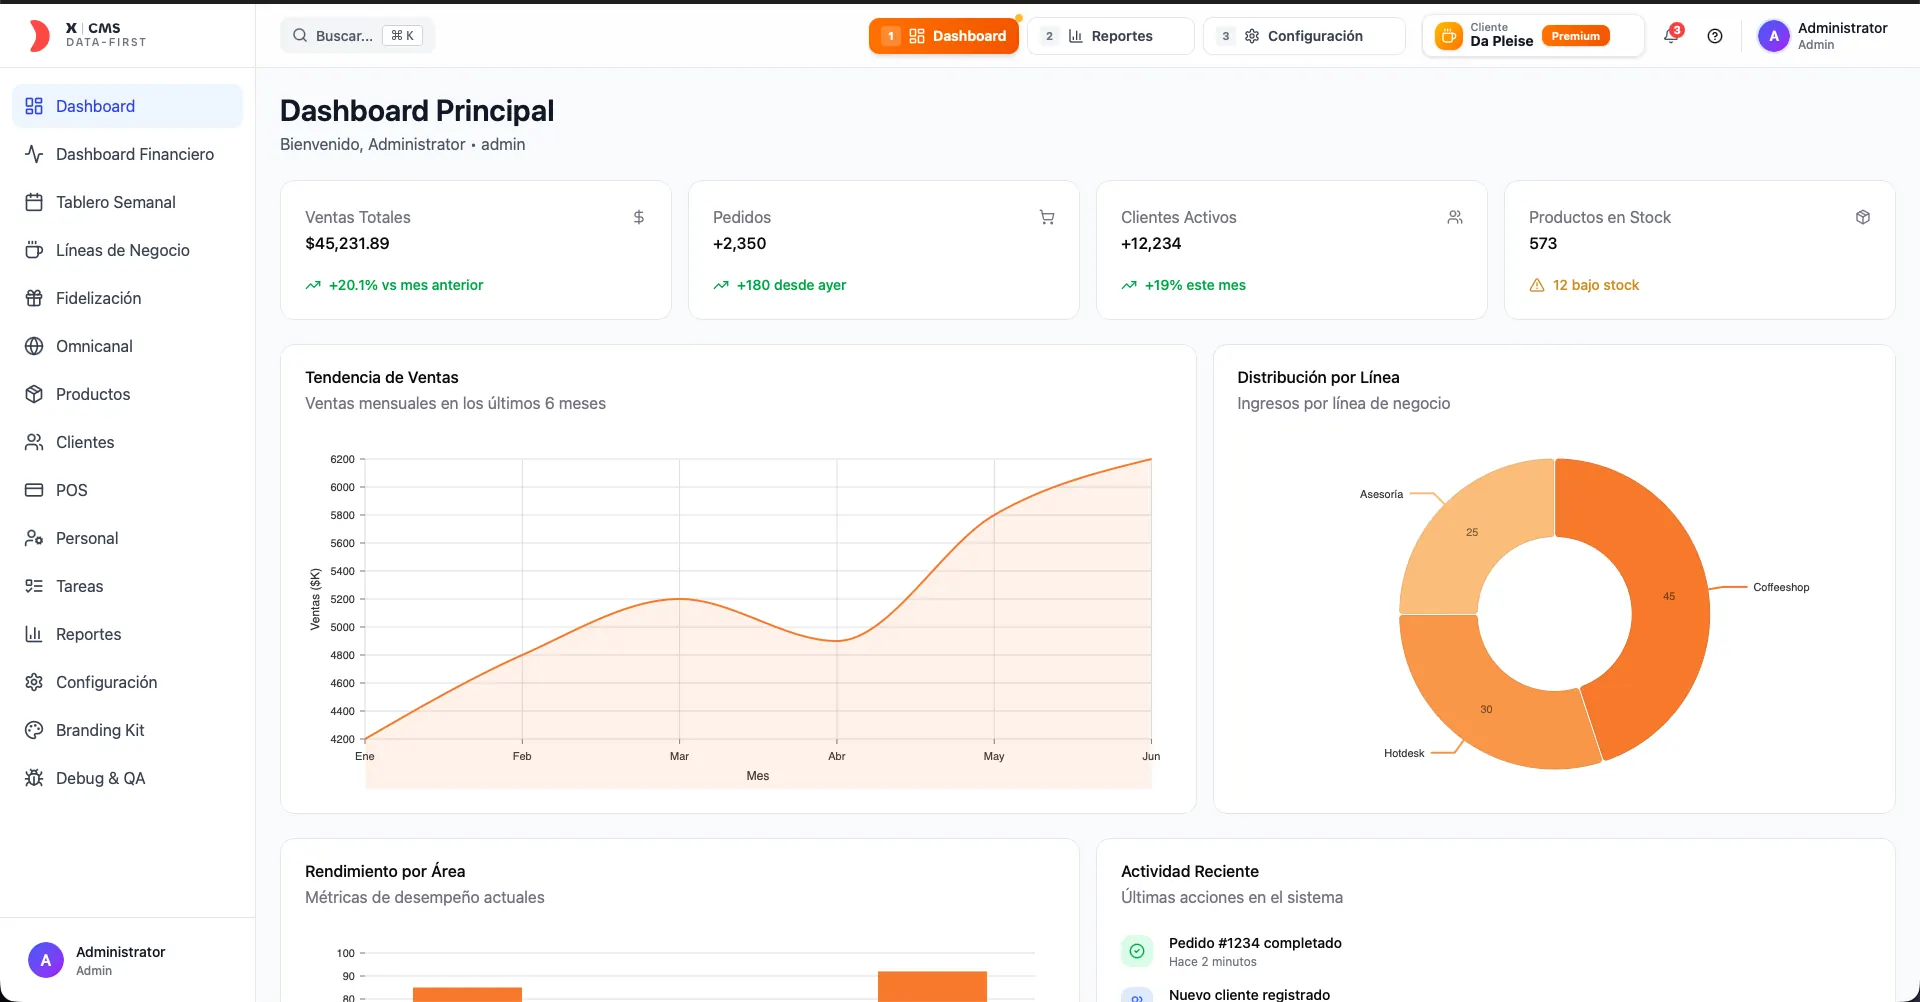
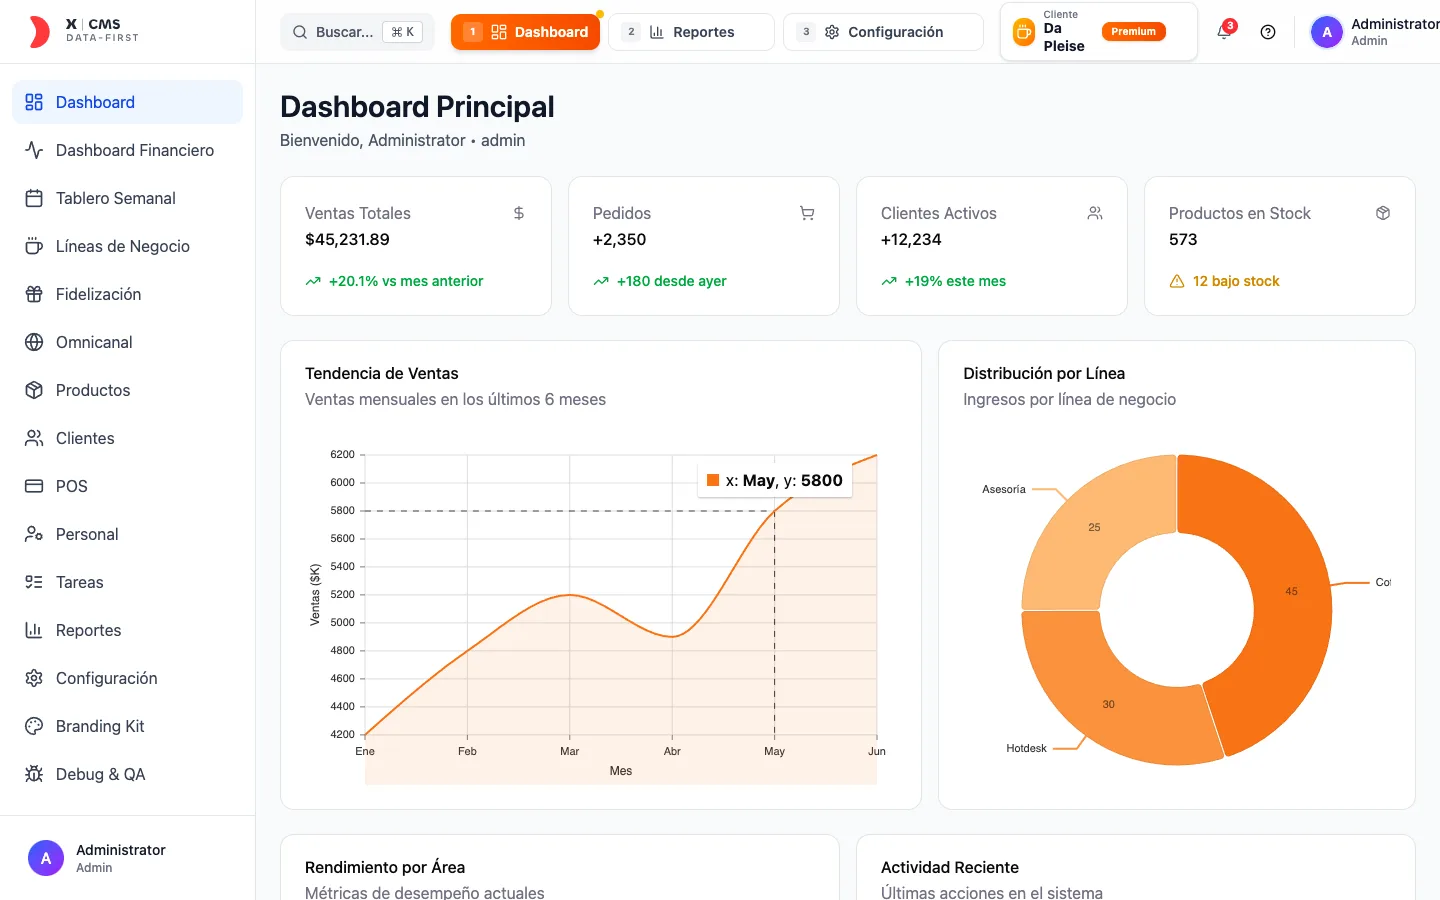
fix(hero): full 16:10 X|CMS dashboard in laptop mockup
Live main still object-cover crops Rendimiento/Actividad. Use the
poc-modules 1440×900 capture (contains those rows) and Code Connect
template as laptop, not browser. Figma Org seat still blocks publish.

diff --git a/src/components/atoms/HeroMedia.figma.ts b/src/components/atoms/HeroMedia.figma.ts
@@ -1,19 +1,22 @@
 // url=https://www.figma.com/design/C2ZgaajABQa3NiFJTnFF45/VN-%C2%B7-Campaign-assets-%C2%B7-piloto-a11y?node-id=44-32
 // source=src/components/molecules/DeviceMockup.tsx
 // component=DeviceMockup
-import figma from 'figma'
-void figma.selectedInstance
+import figma from "figma";
+void figma.selectedInstance;
 
 export default {
   example: figma.code`
     <DeviceMockup
-      variant="browser"
+      variant="laptop"
       src="/images/consultoria/x-cms-dashboard.png"
-      alt="Dashboard CMS — operaciones digitales en el stack del cliente"
-      caption="cms · operaciones"
+      alt="X|CMS — dashboard de operaciones en el CMS del cliente"
+      caption="X|CMS · demo 5 min"
+      addressBar="x-cms · operaciones"
     />
   `,
-  imports: ['import { DeviceMockup } from "@/components/molecules/DeviceMockup"'],
-  id: 'hero-ops-media',
+  imports: [
+    'import { DeviceMockup } from "@/components/molecules/DeviceMockup"',
+  ],
+  id: "hero-ops-media",
   metadata: { nestable: true },
-}
+};

diff --git a/src/components/molecules/DeviceMockup.tsx b/src/components/molecules/DeviceMockup.tsx
@@ -91,11 +91,13 @@ export function DeviceMockup({
       <img
         src={src}
         alt={alt}
-        width={1920}
-        height={1002}
+        width={1440}
+        height={900}
         className={cn(
           "block h-auto w-full bg-[#0a0a0a]",
-          fit === "contain" ? "object-contain object-top" : "aspect-[16/10] object-cover object-top",
+          fit === "contain"
+            ? "object-contain object-top"
+            : "aspect-[16/10] object-cover object-top",
         )}
         loading={loading}
         decoding="async"
@@ -124,7 +126,7 @@ export function DeviceMockup({
     );
   }
 
-  /* laptop — full column width so the 1920×1002 dashboard is fully visible */
+  /* laptop — 16:10 capture (1440×900) at column width; contain, no crop */
   return (
     <figure className={cn("relative mx-auto w-full overflow-x-clip", className)}>
       {glow ? (
